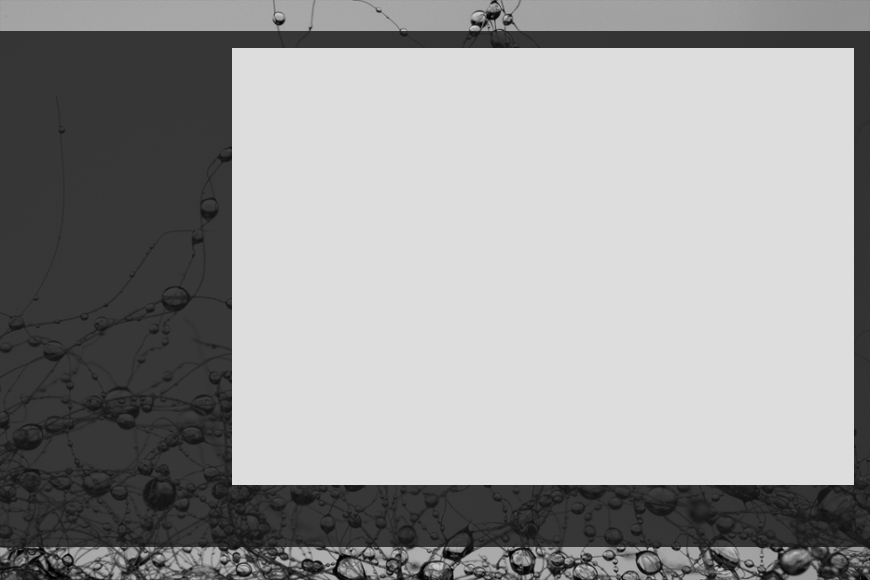
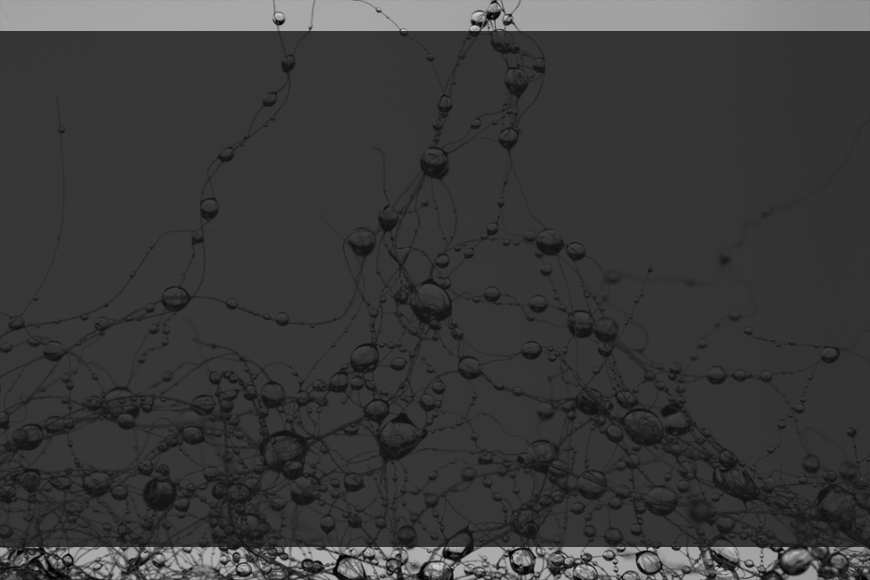
poprawki do grafiki, naprawienie błędu z ładowaniem kotrolek

diff --git a/LSTM-RNN/LSTM-RNN/Form1.Designer.cs b/LSTM-RNN/LSTM-RNN/Form1.Designer.cs
@@ -1,6 +1,6 @@
 namespace LSTM_RNN
 {
-    partial class Kontakt
+    partial class MainWindow
     {
         /// <summary>
         /// Required designer variable.
@@ -29,7 +29,7 @@
         private void InitializeComponent()
         {
             this.components = new System.ComponentModel.Container();
-            System.ComponentModel.ComponentResourceManager resources = new System.ComponentModel.ComponentResourceManager(typeof(Kontakt));
+            System.ComponentModel.ComponentResourceManager resources = new System.ComponentModel.ComponentResourceManager(typeof(MainWindow));
             this.groupBox1 = new System.Windows.Forms.GroupBox();
             this.groupBox4 = new System.Windows.Forms.GroupBox();
             this.checkBox1 = new System.Windows.Forms.CheckBox();
@@ -196,6 +196,11 @@
             // numericUpDown5
             // 
             this.numericUpDown5.Location = new System.Drawing.Point(104, 139);
+            this.numericUpDown5.Maximum = new decimal(new int[] {
+            16,
+            0,
+            0,
+            0});
             this.numericUpDown5.Minimum = new decimal(new int[] {
             1,
             0,
@@ -492,9 +497,9 @@
             // 
             // progressBar1
             // 
-            this.progressBar1.Location = new System.Drawing.Point(12, 503);
+            this.progressBar1.Location = new System.Drawing.Point(0, 503);
             this.progressBar1.Name = "progressBar1";
-            this.progressBar1.Size = new System.Drawing.Size(842, 23);
+            this.progressBar1.Size = new System.Drawing.Size(872, 23);
             this.progressBar1.TabIndex = 3;
             // 
             // button1
@@ -607,11 +612,12 @@
             this.AboutTS.Text = "O programie";
             this.AboutTS.Click += new System.EventHandler(this.AboutTS_Click);
             // 
-            // Kontakt
+            // MainWindow
             // 
             this.AutoScaleDimensions = new System.Drawing.SizeF(6F, 13F);
             this.AutoScaleMode = System.Windows.Forms.AutoScaleMode.Font;
             this.BackgroundImage = global::LSTM_RNN.Properties.Resources.szata2;
+            this.BackgroundImageLayout = System.Windows.Forms.ImageLayout.Stretch;
             this.ClientSize = new System.Drawing.Size(872, 541);
             this.Controls.Add(this.h_node0);
             this.Controls.Add(this.toolStrip1);
@@ -620,10 +626,11 @@
             this.Controls.Add(this.groupBox3);
             this.Controls.Add(this.groupBox2);
             this.Controls.Add(this.groupBox1);
+            this.DoubleBuffered = true;
             this.FormBorderStyle = System.Windows.Forms.FormBorderStyle.Fixed3D;
             this.Icon = ((System.Drawing.Icon)(resources.GetObject("$this.Icon")));
             this.MaximizeBox = false;
-            this.Name = "Kontakt";
+            this.Name = "MainWindow";
             this.StartPosition = System.Windows.Forms.FormStartPosition.CenterScreen;
             this.Text = "LSTM-RNN";
             this.Click += new System.EventHandler(this.h_node0_Click);

diff --git a/LSTM-RNN/LSTM-RNN/Form1.cs b/LSTM-RNN/LSTM-RNN/Form1.cs
@@ -10,9 +10,9 @@ using System.Windows.Forms;
 
 namespace LSTM_RNN
 {
-    public partial class Kontakt : Form
+    public partial class MainWindow : Form
     {
-        public Kontakt()
+        public MainWindow()
         {
             InitializeComponent();
         }

diff --git a/LSTM-RNN/LSTM-RNN/Program.cs b/LSTM-RNN/LSTM-RNN/Program.cs
@@ -16,7 +16,7 @@ namespace LSTM_RNN
         {
             Application.EnableVisualStyles();
             Application.SetCompatibleTextRenderingDefault(false);
-            Application.Run(new Kontakt());
+            Application.Run(new MainWindow());
         }
     }
 }
